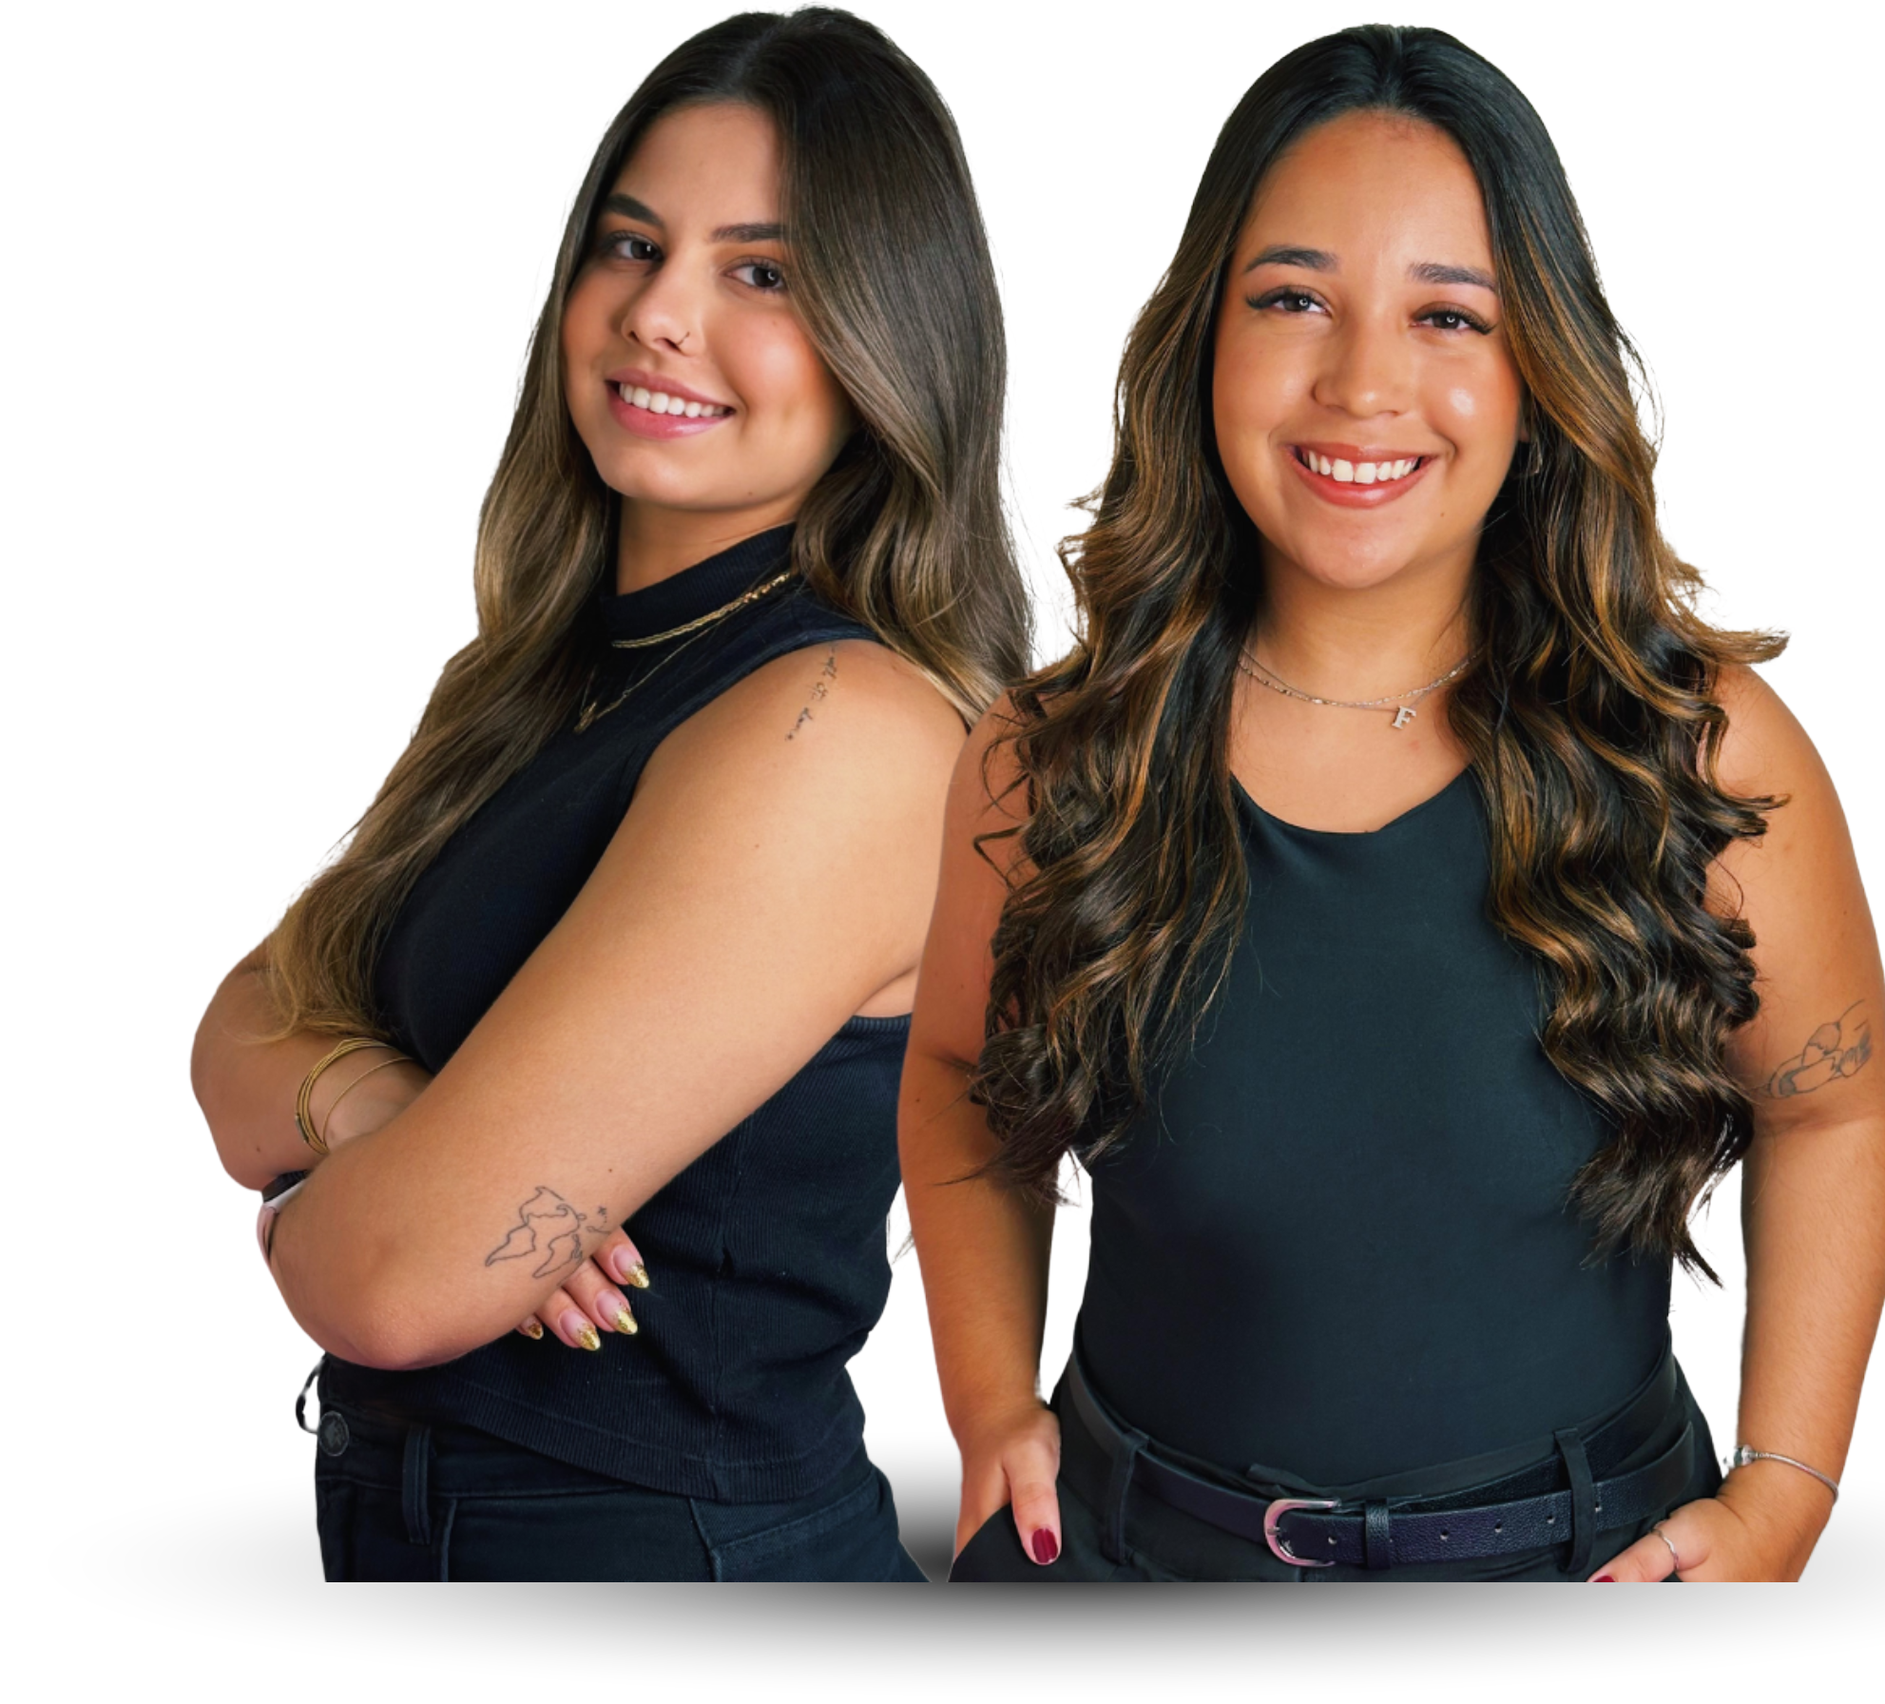
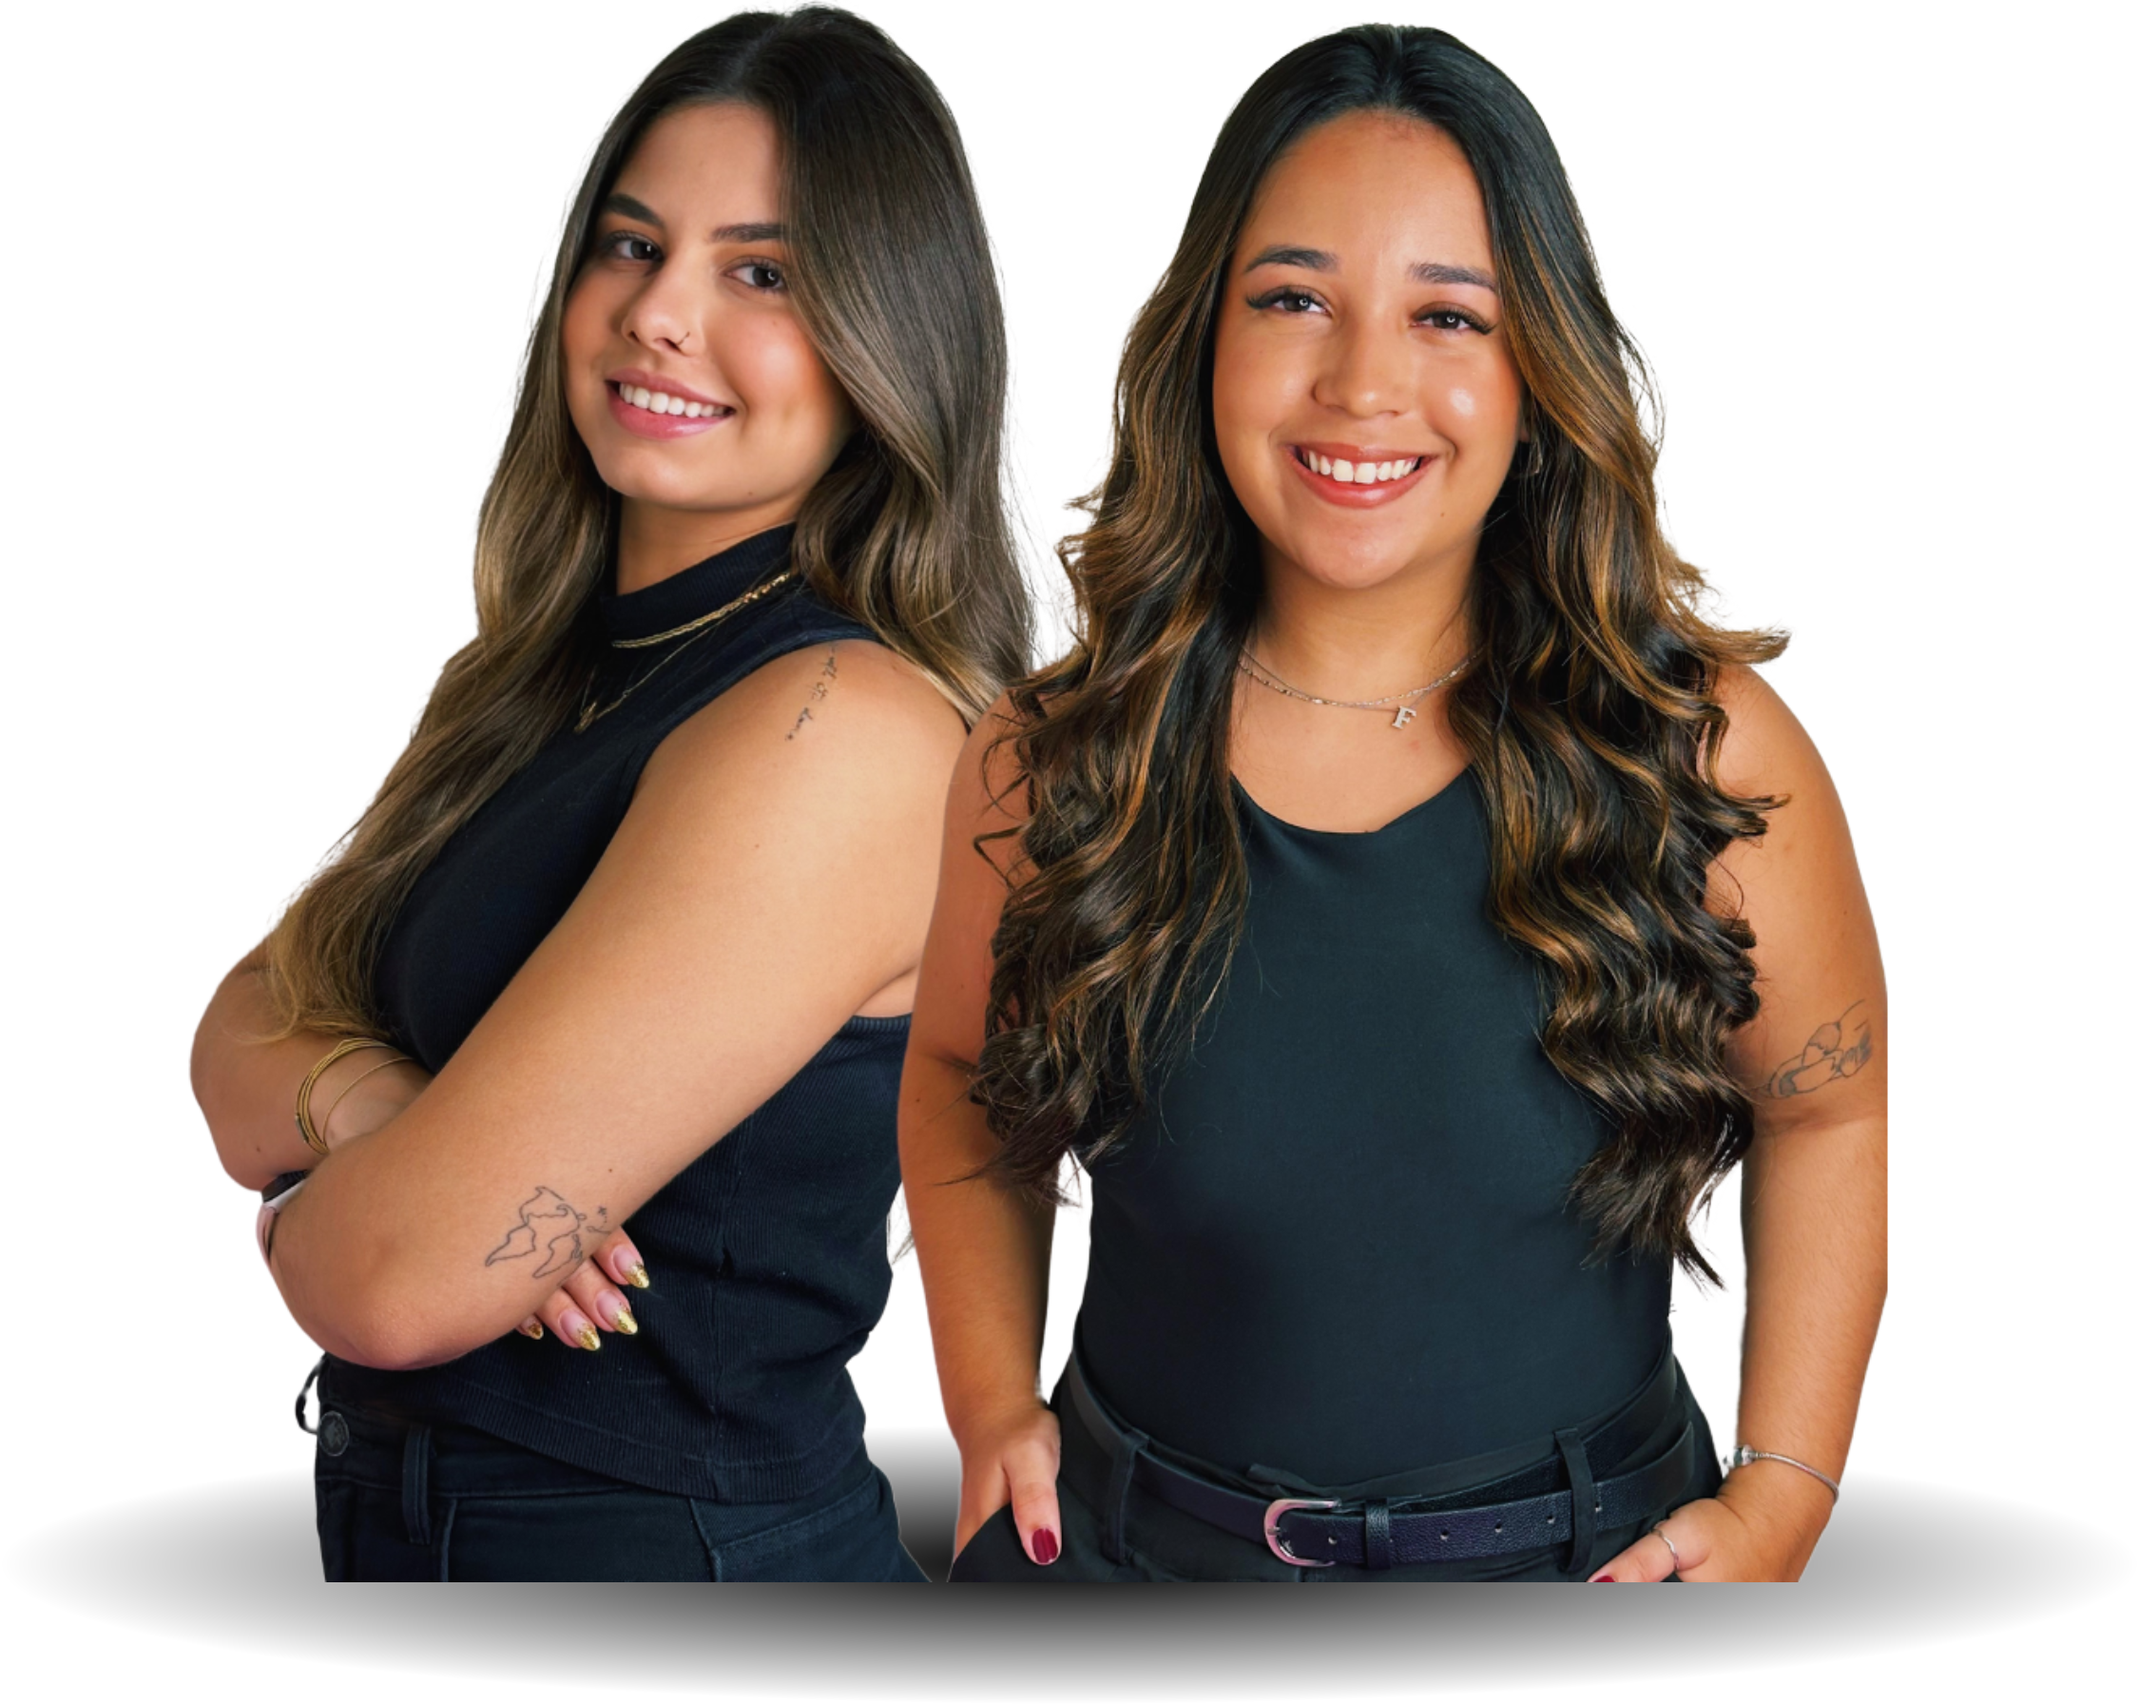
atualização

diff --git a/index.html b/index.html
@@ -102,7 +102,7 @@
                             <p class="texto-elemento"><span class="bold">•  2 stories</span> por dia
                                 (nos dias de funcionamento
                                 do estabelecimento).
-                                <span class="bold">•  1 dia de gravação</span> por semana.
+                                <span class="bold">•  Gravações mensais.</span>
                                 <span class="bold">•  2 posts</span> estáticos.
                                 <span class="bold">•  2 posts</span> carrossel.
                                 <span class="bold">•  Cronograma mensal</span> de
@@ -120,7 +120,7 @@
                             <p class="texto-elemento"><span class="bold">•  2 stories</span> por dia
                                 (nos dias de funcionamento
                                 do estabelecimento).
-                                <span class="bold">•  1 dia</span> de gravação por semana.
+                                <span class="bold">•  Gravações mensais.</span>
                                 <span class="bold">•  2 posts</span> estáticos.
                                 <span class="bold">•  2 posts</span> carrossel.
                                 <span class="bold">•  1 reels</span> por semana.
@@ -141,16 +141,12 @@
                             <p class="texto-elemento"><span class="bold">•  3 stories</span> por dia
                                    (nos dias de funcionamento
                                    do estabelecimento).
-                                <span class="bold">•  1 a 2 dias</span> de gravação por
-                                   semana (caso necessário).
+                                <span class="bold">•  Gravações mensais.</span>
                                 <span class="bold">•  3 posts</span> estáticos.
                                 <span class="bold">•  3 posts</span> carrossel.
                                 <span class="bold">•  1 reels</span> por semana.
                                 <span class="bold">•  R$100,00</span> de tráfego pago
                                    incluso.
-                                <span class="bold">•  1 reunião</span> por mês com o
-                                   cliente para alinhamento de
-                                   perfil e estratégias.
                                 <span class="bold">•  Criação de roteiros</span>
                                    personalizados para cada
                                    tema de vídeo ou posts.
@@ -199,7 +195,6 @@
                     </div>
                 </div>
 
-
                 <div class="conteudo-realtime">
                     <p class="texto-realtime">
                             <span class="bold">Capturamos, editamos e entregamos
@@ -234,10 +229,12 @@
         <section id="pack" class="pack">
             <img class="img-pack" src="/assets/img/img-pack.png" alt="">
             <div class="container-pack">
-                <h1 class="titulo-pack"><span class="bold">Pack</span>
-                DE FIGURINHAS
-                </h1>
-                <img class="logo-pack" src="/assets/img/logom2y-02.png" alt="">
+                <div>
+                    <h1 class="titulo-pack"><span class="bold">Pack</span>
+                        DE FIGURINHAS
+                    </h1>
+                    <img class="logo-pack" src="/assets/img/logom2y-02.png" alt="">
+                </div>
                 <p class="texto-pack">Pagamento único, acesso vitalicio + atualização gratuita
                     sem nenhum custo adicional.
                     Após a confirmação de pagamento o acesso chegará
@@ -252,46 +249,42 @@
         <section class="extra">
             <h1 class="titulo-extra">Serviços extras</h1>
             <div class="container-texto-extra">
-                <p class="texto-extra"><span class="bold">1. Criação de logo personalizada:</span> Desenvolvimento
-                    de um logotipo exclusivo que representa a
-                    identidade visual da sua marca.
-    
-                    <span class="bold">2. Anúncio e desenvolvimento de tráfego pago:</span>
+                <p class="texto-extra"><span class="bold">1. Anúncio e desenvolvimento de tráfego pago:</span>
                     Criação e gestão de anúncios pagos para aumentar
                     o alcance e atrair mais clientes.
     
-                    <span class="bold">3. Cobertura de eventos:</span> Registro do evento
+                    <span class="bold">2. Cobertura de eventos:</span> Registro do evento
                     com fotos e vídeos para compartilhar nas
                     redes sociais, aumentando a visibilidade.
     
-                    <span class="bold">4. Criação de landing pages:</span> Desenvolvimento de
+                    <span class="bold">3. Criação de landing pages:</span> Desenvolvimento de
                     uma página simples e objetiva para captar
                     contatos e divulgar produtos ou serviços.
     
-                    <span class="bold">5. Stories em tempo real do evento:</span> Postagens ao
+                    <span class="bold">4. Stories em tempo real do evento:</span> Postagens ao
                     vivo nos stories para que seus seguidores
                     acompanhem o evento em tempo real.
                 </p>
-                <p class="texto-extra"><span class="bold">6. Criação de cardápio, e-book, portfólio e artes
+                <p class="texto-extra"><span class="bold">5. Criação de cardápio, e-book, portfólio e artes
                     variadas:</span> Desenvolvimento demateriais gráficos
                     personalizados para suas necessidades, como
                     cardápios, e-books, portfólios e outros.
     
-                    <span class="bold">7. Criação de filtro:</span> Design de filtros personalizados
+                    <span class="bold">6. Criação de filtro:</span> Design de filtros personalizados
                     para o Instagram, permitindo que seus seguidores
                     interajam com a marca.
     
-                    <span class="bold">8. Auxílio em lives no Instagram:</span> Suporte durante
+                    <span class="bold">7. Auxílio em lives no Instagram:</span> Suporte durante
                     as transmissões ao vivo para garantir um bom
                     desempenho.
     
-                    <span class="bold">9. Gestão de interações (responder clientes e
+                    <span class="bold">8. Gestão de interações (responder clientes e
                     comentários no Instagram):</span> Resposta rápida e
                     cuidadosa aos comentários e mensagens dos
                     seguidores para fortalecer o relacionamento
                     com o público.
     
-                    <span class="bold">10. Convites Virtuais Personalizados:</span> Criação de
+                    <span class="bold">9. Convites Virtuais Personalizados:</span> Criação de
                     convites digitais exclusivos, práticos para envio por
                     redes sociais e que refletem o estilo do evento.
                 </p>

diff --git a/assets/css/sections/5-pack/responsive/pack-resp.css b/assets/css/sections/5-pack/responsive/pack-resp.css
@@ -2,26 +2,27 @@
     .pack{
         flex-direction: column;
         gap: 20px;
+        margin: 5rem 0;
     }
     .img-pack{
-        width: 400px;
+        width: 95%;
     }
     .container-pack{
         align-items: center;
     }
     .titulo-pack{
-        font-size: 40px;
+        font-size: 2.5rem;
         margin-bottom: 5px;
     }
     .logo-pack{
-        width: 80px;
-        margin-left: 30px;
+        width: 5rem;
         align-self: flex-start;
     }
     .texto-pack{
         align-items: flex-start;
-        font-size: 15px;
-        margin: 25px 30px 25px;
+        font-size: 17px;
+        margin: 25px 30px;
+        white-space: normal;
     }
     .botao-pack{
         width: 60%;

diff --git a/assets/css/sections/3-planos/responsive/planos-resp.css b/assets/css/sections/3-planos/responsive/planos-resp.css
@@ -2,20 +2,19 @@
     .planos{
         height: auto;
         gap: 20px;
-        margin: 5rem 0
+        margin: 6rem 0
     }
     .titulo-planos{
         width: 90%;
         text-align: center;
         font-size: 2rem;
-        margin-bottom: 50px;
+        margin-bottom: 3rem;
     }
 
 
     .slider-planos{
         width: 300px;
-        height: 31.5rem;
-        max-height: 35rem;
+        height: 415px;
         justify-content: flex-start;
     }
     .slides-planos{
@@ -117,8 +116,9 @@
     .frente-elemento-2,
     .frente-elemento-3{
         height: auto;
-        max-height: 450px;
     }
+
+    .fundo-elemento-3{height: 400px;}
 
     .titulo-elemento{
         font-size: 25px;

diff --git a/assets/css/sections/4-realtime/responsive/realtime-resp.css b/assets/css/sections/4-realtime/responsive/realtime-resp.css
@@ -3,6 +3,7 @@
         width: 100vw;
         height: 100%;
         gap: 10px;
+        margin: 5rem 0;
     }
     .titulo-realtime{
         font-size: 2rem;
@@ -20,14 +21,15 @@
         gap: 20px;
     }
     .texto-realtime{
-        width: 80vw;
+        width: 80%;
         font-size: 1rem;
         margin-right: 0;
     }
     .slider-realtime{
         width: 100vw;
-        height: 6rem;
-        padding: 0 20px 0 20px;
+        height: 5rem;
+        padding: 10px 20px;
+        justify-content: space-between;
         gap: 20px;
     }
     .conteudo-slider-realtime{

diff --git a/assets/css/sections/2-sobre/responsive/sobre-resp.css b/assets/css/sections/2-sobre/responsive/sobre-resp.css
@@ -2,7 +2,7 @@
     .sobre{
         height: auto;
         gap: 2rem;
-        margin: 4rem 0;
+        margin: 4.5rem 0;
     }
     .titulo-sobre{
         font-size: 2rem;
@@ -13,13 +13,12 @@
         gap: 30px;
     }
     .texto-sobre{
-        width: 80%;
+        width: 85%;
         font-size: 1rem;
         margin-left: 0;
     }
     .img-sobre{
-        width: 80%;
-        margin-right: 2rem;
+        width: 85%;
     }
 }
 

diff --git a/assets/css/sections/4-realtime/realtime.css b/assets/css/sections/4-realtime/realtime.css
@@ -52,7 +52,7 @@
 .modal-player {
     display: none; /* Modal oculto por padrão */
     position: fixed;
-    z-index: 1;
+    z-index: 10;
     left: 0;
     top: 0;
     width: 100%;
@@ -116,7 +116,7 @@
     gap: 40px;
 }
 .conteudo-slider-realtime{
-    width: 220px;
+    max-width: 220px;
     font-family: var(--montserrat);
     font-size: 25px;
     font-weight: 600;

diff --git a/assets/css/header/responsive/header-resp.css b/assets/css/header/responsive/header-resp.css
@@ -1,8 +1,8 @@
 @media screen and (max-width: 480px){
     header{
         position: fixed;
-        height: 5rem;
-        z-index: 1000;
+        height: 4rem;
+        z-index: 5;
     }
     .logo{
         width: 4rem;

diff --git a/assets/css/sections/7-portifolio/portifolio.css b/assets/css/sections/7-portifolio/portifolio.css
@@ -118,7 +118,7 @@
 .modal {
     display: none;
     position: fixed;
-    z-index: 1;
+    z-index: 10;
     left: 0;
     top: 0;
     width: 100%;
